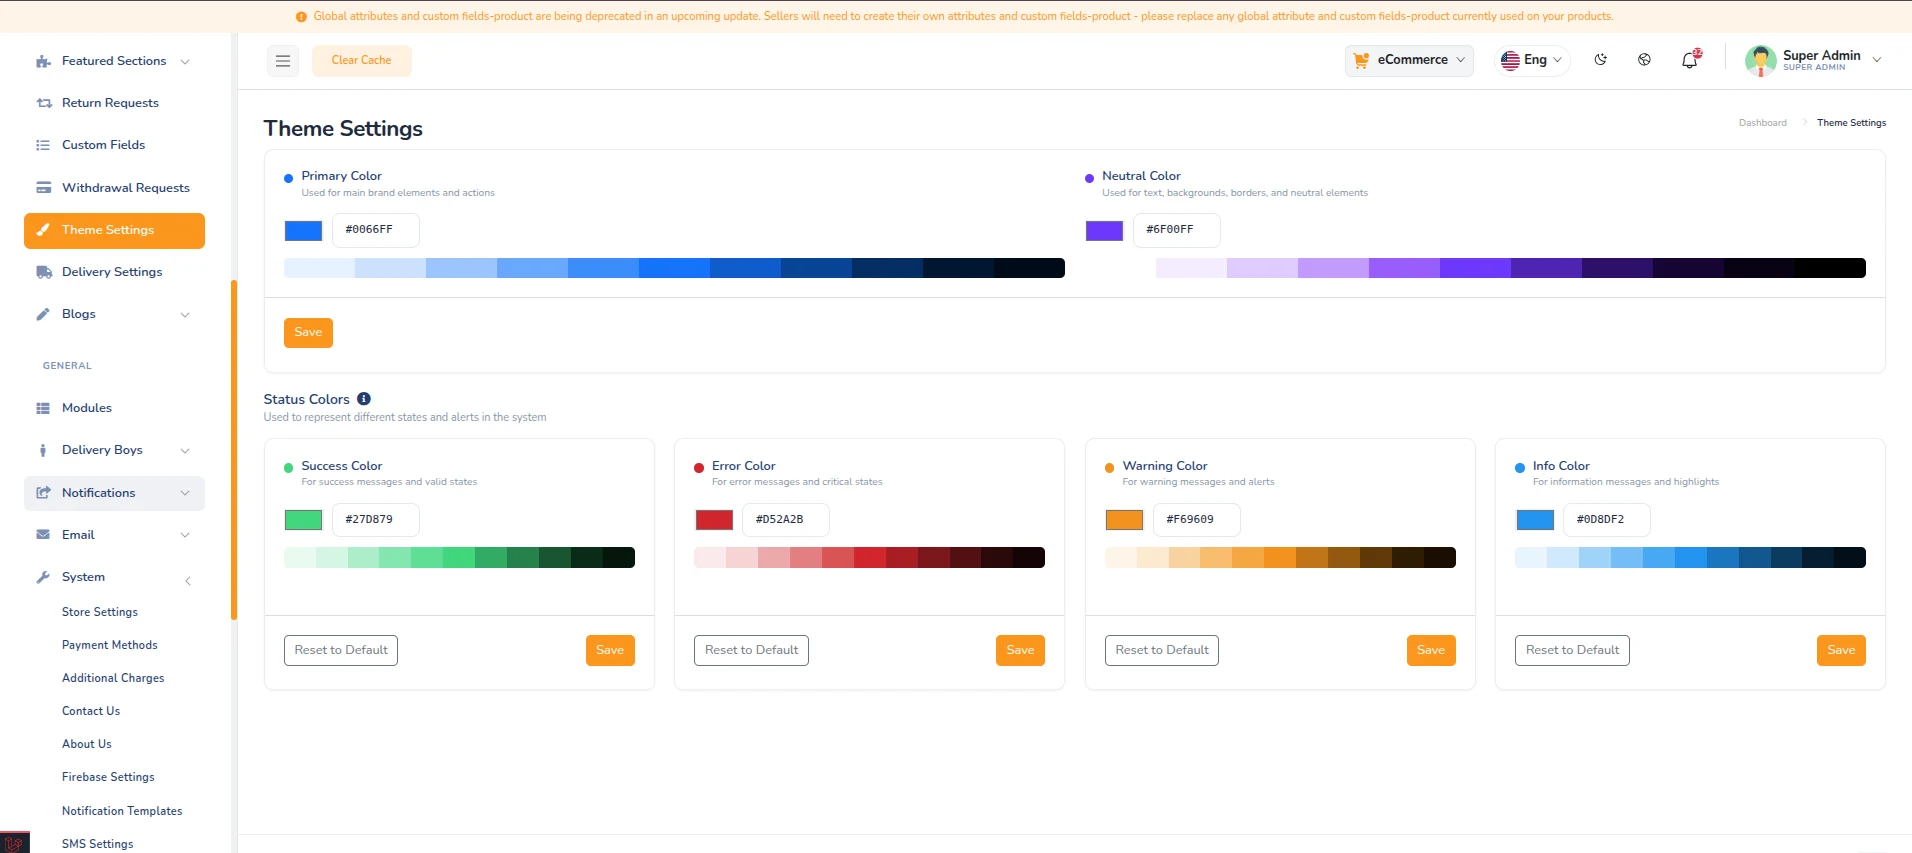
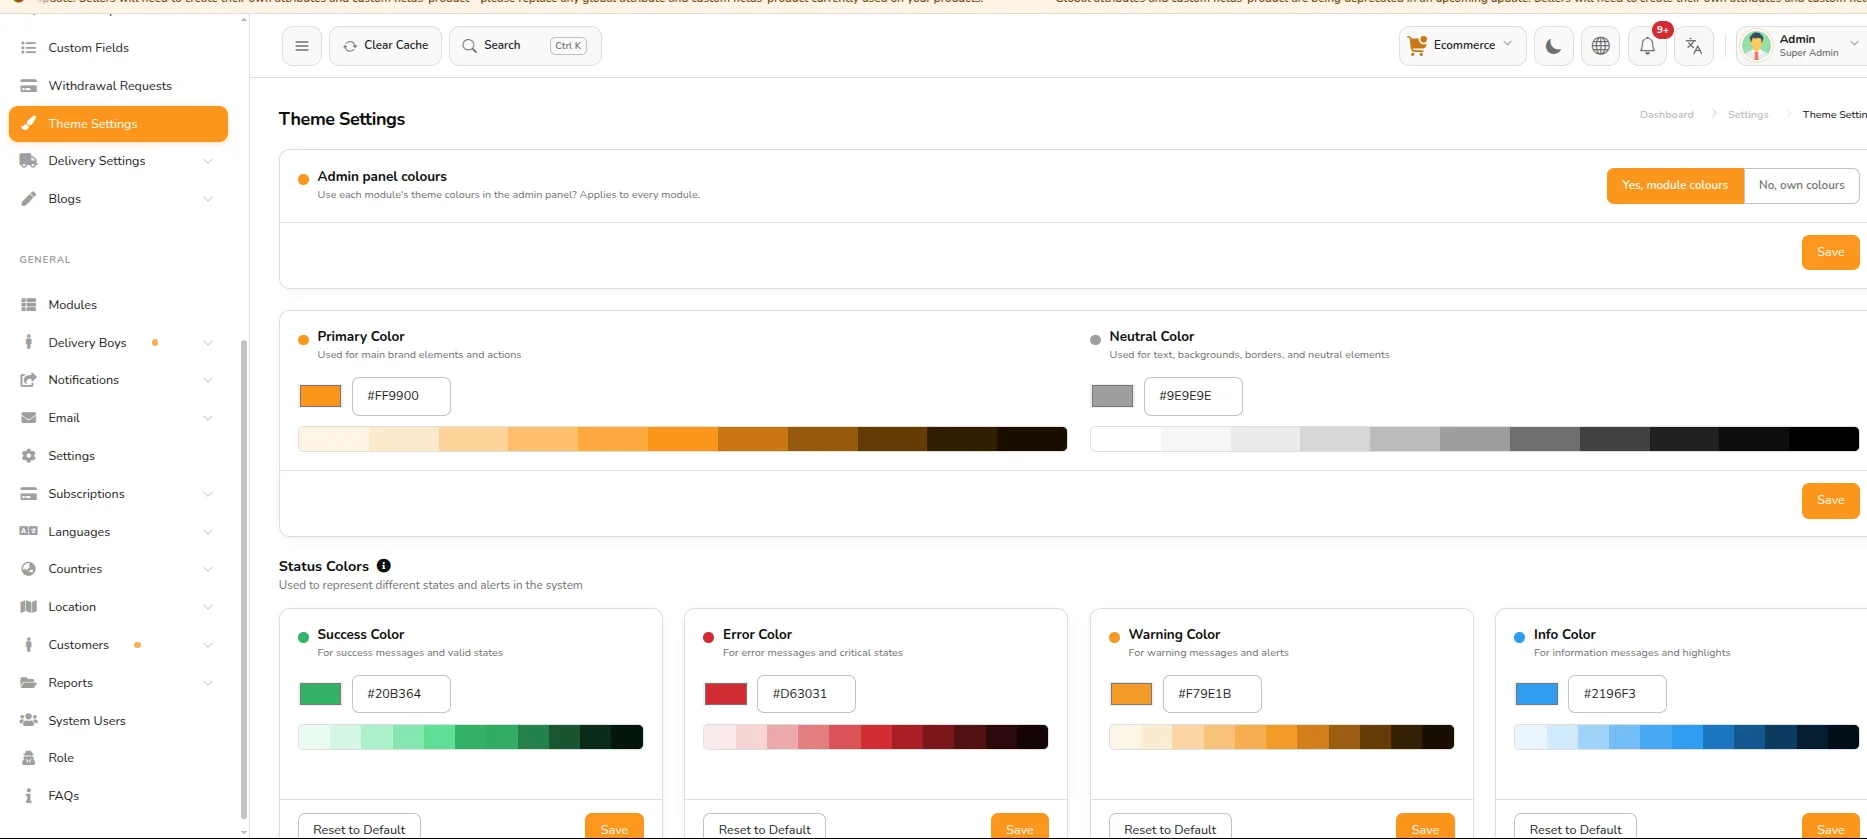
docs: add seller panel guides (abandoned carts, delivery boys, custom fields) and update theme settings

diff --git a/sidebars.js b/sidebars.js
@@ -155,7 +155,10 @@ const sidebars = {
         "detailed-documentation/catalog",
         "detailed-documentation/sellers",
         "detailed-documentation/delivery",
+        "detailed-documentation/seller-delivery-boys",
+        "detailed-documentation/seller-custom-fields",
         "detailed-documentation/promotions",
+        "detailed-documentation/abandoned-carts",
         "detailed-documentation/customer-finance",
         "detailed-documentation/communications",
         "detailed-documentation/settings",

diff --git a/docs/admin-panel/theme-settings.md b/docs/admin-panel/theme-settings.md
@@ -6,9 +6,9 @@ sidebar_position: 10
 
 Customize the platform's color scheme from here. Navigate to **Modules → Theme Settings**.
 
-These colors apply to the **website** and the **customer app** — both download the palette from the server, so changing your brand color here does not require rebuilding or resubmitting the app.
+These colors apply to the **website** and the **customer app**. Both download the palette from the server, so changing your brand color here does not require rebuilding or resubmitting the app. The admin panel can also use these colors, depending on the **Admin panel colours** option below.
 
-The admin panel's own interface and the partner app are not affected by these settings.
+The partner app is not affected by these settings.
 
 ![Theme Settings](/img/admin-panel/theme-settings.webp)
 
@@ -41,6 +41,15 @@ The Success/Error/Warning/Info section only appears when the currently selected 
 
 Each status color has its own hex input, shade preview, **Reset to Default**, and **Save** button — configure independently.
 
+## Admin Panel Colours
+
+The **Admin panel colours** card at the top of the page controls which colours the admin panel itself uses. The question shown is: *Use each module's theme colours in the admin panel? Applies to every module.*
+
+- **Yes, module colours**: the admin panel uses the theme colours of the module you have selected in the header module switcher. The panel colours change when you switch module.
+- **No, own colours**: the admin panel keeps its own default colours and does not follow the module colours.
+
+Click **Save** in the card to apply your choice. The option applies to every module.
+
 ## Configuration Steps
 
 1. Log in to admin panel
@@ -53,7 +62,8 @@ Each status color has its own hex input, shade preview, **Reset to Default**, an
 ## Important Notes
 
 - Changes apply to the website and customer app after save
-- The admin panel interface and the partner app keep their own colors and are not changed here
+- The admin panel follows the module colours only when **Admin panel colours** is set to **Yes, module colours**
+- The partner app keeps its own colors and is not changed here
 - The customer app picks up the new palette on next launch; it caches the last palette so it still renders correctly offline
 - Primary and Neutral colors are per-module; Status colors are global and shown/edited only on the default module, but apply across all modules
 - You enter one Primary and one Neutral color per module; the system generates the full shade range from each
